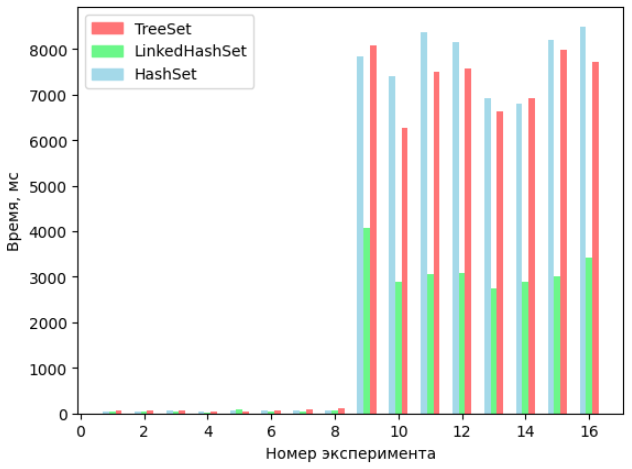
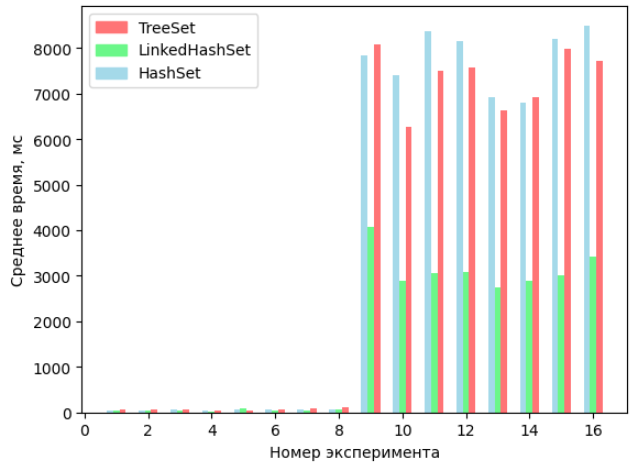
Вычитка документа

Changed region(s): [[0.0, 0.0, 0.9921, 0.9274], [0.4209, 0.8675, 0.6915, 0.9872], [0.1804, 0.8675, 0.3908, 0.9274]]

diff --git a/software_implementation.tex b/software_implementation.tex
@@ -1,4 +1,4 @@
-Описанная модель реализована на языке программирования Java. Реализация сочетает достоинства применения как парадигмы ООП, так и процедурного программирования. При реализации обособлен выбор типа задействованной коллекции для описания набора вершин и дуг.
+Описанная модель реализована на языке программирования Java. Реализация сочетает достоинства применения как парадигмы ООП, так и функционального программирования за счет активного использования лямбда-выражений.
 
 % Обозначить, что правильный выбор коллекции - это залог успеха
 При проектировании программной реализации было выявлено, что на производительность решения существенное влияние оказывает способ хранения информации о вершинах и дугах. Вариативность способов хранения этой информации зависит от выбранного языка программирования и объема подключаемых библиотек.
@@ -6,26 +6,27 @@
 % Массивы
 Используемый в работах [10], [16], [18] способ хранения информации в массивах является самым простым в реализации. Его использование позволяет наиболее эффективно осуществлять поиск элементов и осуществлять обновление информации о наличествующих в графе вершинах и дугах. Например, как показано в работе [13], изменять значение весовых коэффициентов. Данный способ наиболее эффективно использовать при работе на статическом графе, который не изменяется с течением времени. Использование его в динамически изменяющимся графе приведет к необходимости создания новых экземпляров массивов с последующим заполнением их значений.
 
-% Списки
-Для проектирования динамически изменяющегося графа необходимо применять динамические структуры данных. Примером таких динамически изменяющихся структур являются связные списки. В работе [4] рассматривается пример их использования. Однако списки допускают хранение одинаковых элементов, что при проектировании описанной графовой модели недопустимо. Модель не предусматривает наличие уникальных идентификаторов. Вследствие этого было принято решение об использовании множеств уникальных значений (Set).
-
 % Многомерные массивы
-Еще одним важным вопросом при проектировании был способ организации связности данных между собой. Необходимо хранить информацию, какие вершины связаны, какая является начальной, а какая конечной. В работе [2] приводится пример использования многомерных массивов. Однако, как описано ранее, данный подход эффективен при неизменяемом числе связей между компонентами графа. Например, если у каждой вершины зафиксировано число дуг, а в процессе преобразований графа моделью изменяется информация о том, в какие именно дуги соединяют вершину с другими вершинами графа. При проектировании модели, в которой число дуг у вершины графа может изменяться, могут создаваться новые вершины и дуги, удаляться ранее созданные, эффективным представляется использование так же динамических структур данных. При проектировании этого функционала было принято решение об использовании множеств уникальных значений (Set).
+В работе [2] приводится пример использования многомерных массивов. Однако, как описано ранее, данный подход эффективен при неизменяемом числе связей между компонентами графа. Например, если у каждой вершины зафиксировано число дуг, а в процессе преобразований графа моделью изменяется информация о том, в какие именно дуги соединяют вершину с другими вершинами графа. При проектировании модели, в которой число дуг у вершины графа может изменяться, могут создаваться новые вершины и дуги, удаляться ранее созданные, эффективным представляется использование динамических структур данных.
 
-Выбранная структура данных может быть реализована по-разному. Выбор реализации влияет на время работы программной реализации модели. С целью проведения экспериментов и получения информации о зависимости времени работы программы от числа элементов графа в реализации предусмотрены два модуля для взаимодействия с данными, введенными пользователем:
+% Списки
+Примером динамических структур данных являются связные списки. В работе [4] рассматривается пример их использования. Однако списки допускают хранение одинаковых элементов, что при проектировании описанной графовой модели недопустимо. Модель предусматривает наличие уникальных идентификаторов. Вследствие этого было принято решение об использовании множеств уникальных значений (Set).
+
+Выбранная структура данных может быть реализована по-разному. Выбор реализации влияет на время работы программной реализации модели. С целью проведения экспериментов и получения информации о зависимости времени работы программы от числа элементов графа в реализации предусмотрен модуль для взаимодействия с данными, введенными пользователем:
 \begin{enumerate}
     \item модуль определения реализации коллекции Set;
     \item модуль генерации исходных данных.
 \end{enumerate}
 
-Модуль определения реализации коллекции Set выполнен с целью определения временных характеристик работы программной реализации модели при условии использования различных реализаций этой коллекции. Благодаря использованию этого модуля достигается возможность задания конкретной реализации с последующим ее внедрением в исходный код программной реализации модели. Модуль позволяет внедрять как стандартные реализации коллекции Set, так и реализации, хранящиеся в подключаемых библиотеках или самостоятельно реализованные пользователем.
+Модуль определения реализации коллекции Set выполнен для определения временных характеристик работы программной реализации модели при условии использования различных реализаций этой коллекции. Благодаря использованию этого модуля достигается возможность задания конкретной реализации с последующим ее внедрением в исходный код программной реализации модели. Модуль позволяет внедрять как стандартные реализации коллекции Set, так и реализации, хранящиеся в подключаемых библиотеках или самостоятельно реализованные пользователем.
 
-Модуль генерации исходных данных выполнен с целью сокращения времени на подготовку матрицы трассируемости требований на файлы исходного кода и матрицы зависимостей между файлами исходного кода. В качестве входных данных модуль принимает четыре параметра:
-\begin{enumerate}
-    \item $Fc$ - число файлов исходного кода;
-    \item $Rc$ - число требований к ПО;
-    \item $Mfc$ - максимальное число зависимостей у файла исходного кода;
-    \item $Mfr$ - максимальное число реализуемых требований в одном файле;
-\end{enumerate}
+Модуль генерации исходных данных выполнен для сокращения времени на подготовку матрицы трассируемости требований на файлы исходного кода и матрицы зависимостей между файлами исходного кода.
 
-Работа модуля заключается в реализации функции $\{Mt, Mr\} = f(Fc, Rc, Mfc, Mfr)$.
+Диаграмма работы выполненной программной реализации приведена на рисунке \ref{fig:application_lifecircle}.
+
+\begin{figure}[H]
+    \centering
+    \includegraphics[width=1\textwidth]{application_lifecircle}
+    \caption{Диаграмма работы выполненной программной реализации}
+    \label{fig:application_lifecircle}
+\end{figure}

diff --git a/experiments_and_discussion.tex b/experiments_and_discussion.tex
@@ -6,22 +6,24 @@
 
 В целях проверки работоспособности программной реализации описанной модели проводился ряд экспериментов. В качестве входных данных использовались значения числа элементов графа в различных числовых диапазонах.
 
-В таблицах \ref{tab:hashset}-\ref{tab:treeset} приведены сведения о среднем времени выполнения операций в 1000 экспериментах по преобразованию $G$ в $G'$ при заданных параметрах генератора исходных данных для следующих реализаций коллекции Set:
+В таблицах \ref{tab:hashset}-\ref{tab:treeset} приведены сведения о среднем времени выполнения операций в экспериментах по преобразованию $G$ в $G'$, которые были выполнены по 1000 раз каждый при заданных параметрах генератора исходных данных для следующих реализаций коллекции Set:
 \begin{enumerate}
     \item HashSet - таблица \ref{tab:hashset};
     \item LinkedHashSet - таблица \ref{tab:linkedhashset};
     \item TreeSet - таблица \ref{tab:treeset}.
 \end{enumerate}
 
+На рисунке \ref{fig:bar} приводится графическая интерпретация результатов экспериментов.
+
 \begin{longtable}{|c|c|c|c|c|c|}
     \caption{Результаты работы программной реализации с применением HashSet}
     \label{tab:hashset}\\   
     \hline
-    \bfseries{№} & \bfseries{Fc} & \bfseries{Rc} & \bfseries{Mfc} & \bfseries{Mfr} & \bfseries{Время, мс} \\
+    \bfseries{№} & \bfseries{Fc} & \bfseries{Rc} & \bfseries{Mfc} & \bfseries{Mfr} & \bfseries{Средне время, мс} \\
     \hline
     \endfirsthead
     \hline
-    \bfseries{№} & \bfseries{Fc} & \bfseries{Rc} & \bfseries{Mfc} & \bfseries{Mfr} & \bfseries{Время, мс} \\
+    \bfseries{№} & \bfseries{Fc} & \bfseries{Rc} & \bfseries{Mfc} & \bfseries{Mfr} & \bfseries{Средне время} \\
     \hline
     \endhead
     \hline
@@ -63,11 +65,11 @@
     \caption{Результаты работы программной реализации с применением LinkedHashSet}
     \label{tab:linkedhashset}\\
     \hline
-    \bfseries{№} & \bfseries{Fc} & \bfseries{Rc} & \bfseries{Mfc} & \bfseries{Mfr} & \bfseries{Время, мс} \\
+    \bfseries{№} & \bfseries{Fc} & \bfseries{Rc} & \bfseries{Mfc} & \bfseries{Mfr} & \bfseries{Средне время} \\
     \hline
     \endfirsthead
     \hline
-    \bfseries{№} & \bfseries{Fc} & \bfseries{Rc} & \bfseries{Mfc} & \bfseries{Mfr} & \bfseries{Время, мс} \\
+    \bfseries{№} & \bfseries{Fc} & \bfseries{Rc} & \bfseries{Mfc} & \bfseries{Mfr} & \bfseries{Средне время} \\
     \hline
     \endhead
     \hline
@@ -109,11 +111,11 @@
     \caption{Результаты работы программной реализации с применением TreeSet}
     \label{tab:treeset}\\
     \hline
-    \bfseries{№} & \bfseries{Fc} & \bfseries{Rc} & \bfseries{Mfc} & \bfseries{Mfr} & \bfseries{Время, мс} \\
+    \bfseries{№} & \bfseries{Fc} & \bfseries{Rc} & \bfseries{Mfc} & \bfseries{Mfr} & \bfseries{Средне время} \\
     \hline
     \endfirsthead
     \hline
-    \bfseries{№} & \bfseries{Fc} & \bfseries{Rc} & \bfseries{Mfc} & \bfseries{Mfr} & \bfseries{Время, мс} \\
+    \bfseries{№} & \bfseries{Fc} & \bfseries{Rc} & \bfseries{Mfc} & \bfseries{Mfr} & \bfseries{Средне время} \\
     \hline
     \endhead
     \hline
@@ -151,8 +153,6 @@
     \hline
 \end{longtable}
 
-На рисунке \ref{fig:bar} приводится графическое представление результатов экспериментов.
-
 \begin{figure}[H]
     \centering
     \includegraphics[width=1\textwidth]{bar}
@@ -162,4 +162,4 @@
 
 Результаты экспериментов показывают, что резкое увеличение времени выполнения преобразования графа происходит при увеличении числа файлов исходного кода, а значительное увеличение числа требований к ПО к такому эффекту не приводит.
 
-Наибольшее время требуется при работе с реализацией HashSet и составляет 8496 мс. Наименьшее время требуется при работе с LinkedHashSet. При использовании этой реализации коллекции Set наибольшее время составляет 4061 мс, в то время как для TreeSet максимальное время достигает 8083 мс.
+В среднем наибольшее время требуется при работе с реализацией HashSet - 8496 мс. Наименьшее время требуется при работе с LinkedHashSet. При использовании этой реализации коллекции Set наибольшее среднее время составляет 4061 мс, в то время как для TreeSet максимальное значение среднего времени достигает 8083 мс при наибольшем количестве файлов исходного кода.

diff --git a/conclusion.tex b/conclusion.tex
@@ -6,6 +6,6 @@
 
 % 2 ссылки на литературу
 
-В статье предложена модель, отображающая трассируемость требований к ПО на файлы исходного кода и позволяющая разрешать циклические зависимости. Используя ее можно получать информацию о степени связности файлов исходного кода друг с другом, на какую долю функционала оказывается влияние при внесении изменений в файлы исходного кода. Данные сведения могут быть полезны, например, при оценке необходимого объема выполнения верификационных процедур после внесения изменений в один или несколько файлов исходного кода.
+В статье предложена модель, отображающая трассируемость требований к ПО на файлы исходного кода и позволяющая разрешать циклические зависимости между файлами исходного кода. Используя ее можно получать информацию о степени связности файлов исходного кода друг с другом, на какую долю функционала оказывается влияние при внесении изменений в файлы исходного кода. Данные сведения могут быть полезны при оценке необходимого объема выполнения верификационных процедур после внесения изменений в один или несколько файлов исходного кода.
 
-В дальнейших исследованиях предполагается применение результатов работы сформированной модели с целью решения задачи оптимальной декомпозиции программного решения инструментального средства конфигурирования выполненного как модуль плагинной системы с целью распределения файлов исходного кода по плагинам для максимизации числа комплектаций поставки разработанного программного решения.
+В дальнейших исследованиях предполагается применение результатов работы сформированной модели для решения задачи оптимальной декомпозиции на выполненной как модуль плагинной системы программной реализации инструментального средства конфигурирования. Предполгается использовать результаты работы модели для распределения файлов исходного кода по плагинам с целью максимизации числа комплектаций поставки разработанной программной реализации.

diff --git a/model_description.tex b/model_description.tex
@@ -5,7 +5,7 @@
     \item множество файлов исходного кода $F_{sc}^* = \{F_{sc}^1, F_{sc}^2, ..., F_{sc}^{n}\}$;
     \item множество требований к ПО $R^* = \{R^1, R^2, ..., R^m\}$.
     \item матрицу бинарных отношений трассируемости требований к ПО на файлы исходного кода $Mt_{n, m}$;
-    \item матрицу бинарных отношений зависимости требований друг на друга $Mr_{n,n}$.
+    \item матрицу бинарных отношений зависимостей файлов исходного кода $Mr_{n,n}$.
 \end{enumerate}
 
 Значение элемента $a_{i,j}^{Mt}$ матрицы $Mt_{n,m}$ определяется следующим образом:
